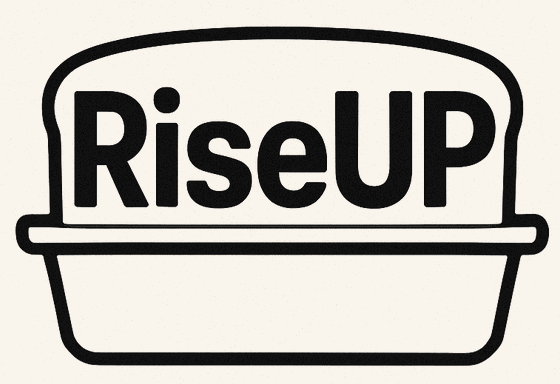
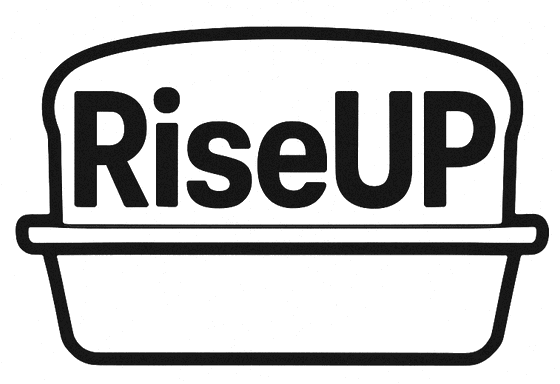
Make the page easier to read and understand
- Darker brown for orange text so it meets contrast guidelines
- Clearer subtitle saying what RiseUP is
- Show the 6-seat limit in The Details
- Second "I'd like to attend" button near the bottom that jumps to the steps
- Plainer labels: "Date coming soon", "Your Gift", "$25 Colorado tax credit"
- Fix the extra dot in Eli's shortened quote
- Transparent logo background so no box shows around it

Claude-Session: https://claude.ai/code/session_01PoVvBkTLwtx1oqfdiccCQz

diff --git a/index.html b/index.html
@@ -23,8 +23,14 @@
             --bg-color: #fdf8f2;
             --text-color: #2c2c2c;
             --accent-color: #c17f3a;
+            --accent-text: #8f5419;
+            --accent-heading: #a66a2a;
             --secondary-text: #7a6f64;
             --warm-border: #e8ddd0;
+        }
+
+        html {
+            scroll-behavior: smooth;
         }
 
         body {
@@ -227,7 +233,7 @@
         }
 
         .bif-title {
-            color: var(--accent-color);
+            color: var(--accent-heading);
             font-family: 'Caveat', cursive;
             font-size: 1.45em;
             font-weight: 700;
@@ -235,7 +241,7 @@
         }
 
         .bif-name {
-            color: var(--accent-color);
+            color: var(--accent-text);
             font-weight: 600;
         }
 
@@ -266,7 +272,7 @@
 
         .cta-secondary {
             background-color: transparent;
-            color: var(--accent-color);
+            color: var(--accent-text);
             box-shadow: inset 0 0 0 2px var(--accent-color);
         }
 
@@ -280,7 +286,7 @@
             border: none;
             padding: 0 4px;
             cursor: pointer;
-            color: var(--accent-color);
+            color: var(--accent-text);
             font-size: 14px;
             font-family: inherit;
         }
@@ -291,7 +297,7 @@
             padding: 0;
             margin-top: 12px;
             cursor: pointer;
-            color: var(--accent-color);
+            color: var(--accent-text);
             font: inherit;
             font-style: normal;
             font-size: 14px;
@@ -340,7 +346,7 @@
            <img src="IMG_2951.png" alt="RiseUP Logo" class="logo-top">
         
         <h1>Rising soon, Bake #3</h1>
-        <p class="subtitle">A baking experience for good.</p>
+        <p class="subtitle">A morning of bread baking that supports Denver youth through Urban Peak.</p>
 
         <div class="section">
             <h2>The Mission</h2>
@@ -353,23 +359,27 @@
             <div class="details-grid">
                 <div class="detail-item">
                     <div class="detail-label">When</div>
-                    <div class="detail-value">Date tbd<br>9:45 AM — 1:00 PM</div>
+                    <div class="detail-value">Date coming soon<br>9:45 AM — 1:00 PM</div>
                 </div>
                 <div class="detail-item">
                     <div class="detail-label">Where</div>
                     <div class="detail-value">The Mothership<br>1630 S. Acoma St.</div>
                 </div>
                 <div class="detail-item">
-                    <div class="detail-label">Impact</div>
-                    <div class="detail-value">$100 Donation</div>
+                    <div class="detail-label">Your Gift</div>
+                    <div class="detail-value">$100 donation</div>
                 </div>
              <div class="detail-item">
     <div class="detail-label">Tax Credit</div>
-    <div class="detail-value">$25 HCTC Credit
+    <div class="detail-value">$25 Colorado tax credit
         <button type="button" class="info-button" id="hctc-toggle" aria-expanded="false" aria-controls="hctc-tip" aria-label="What is the HCTC tax credit?">ⓘ</button>
         <div id="hctc-tip" hidden style="margin-top:8px;font-size:13px;color:#7a6f64;background:#f0e8dc;border-radius:8px;padding:10px 12px;line-height:1.5;">Colorado's Homeless Contribution Tax Credit (HCTC) allows donors to receive a <strong>25% state tax credit</strong> on donations of $100 or more to qualifying organizations like Urban Peak. On a $100 donation, that's a <strong>$25 credit</strong> directly off your Colorado state taxes. Select "Yes" under Gift Preferences when donating to claim it.</div>
     </div>
 </div>
+                <div class="detail-item">
+                    <div class="detail-label">Seats</div>
+                    <div class="detail-value">Only 6 per bake</div>
+                </div>
 
             </div>
         </div>
@@ -379,7 +389,7 @@
             <p>While our dough undergoes its first rise, we will take a private tour of the brand-new Mothership campus to see the trauma-informed care and housing programs in action.</p>
         </div>
 
-<p style="margin-top: 40px; margin-bottom: 0; color: var(--text-color);">Join us for a morning of bread baking and a closer look at Urban Peak.</p>
+<p id="sign-up" style="margin-top: 40px; margin-bottom: 0; color: var(--text-color);">Join us for a morning of bread baking and a closer look at Urban Peak.</p>
 
 <ol class="signup-steps">
     <li>Click the button below.</li>
@@ -389,7 +399,7 @@
     <li>Complete your donation.</li>
 </ol>
 
-<p style="margin-top: 40px; font-size: 17px; font-weight: 600; color: var(--accent-color);">Your full $100 goes directly to Urban Peak youth.</p>
+<p style="margin-top: 40px; font-size: 17px; font-weight: 600; color: var(--accent-text);">Your full $100 goes directly to Urban Peak youth.</p>
 
 <a href="https://www.urbanpeak.org/support" class="cta-button" target="_blank" rel="noopener noreferrer">I'd like to attend</a>
 
@@ -434,8 +444,8 @@
             <img src="Tom-Colleen-RiseUP-2.jpeg" loading="lazy" alt="RiseUP Bake 2 - Tom and Colleen">
                 </div>
  <div class="quote-card">
-                    "I loafed every minute of the RiseUP event this weekend! From start to finish, it was the perfect recipe for a meaningful and memorable experience.<span id="eli-ellipsis">…"</span>
-                    <span id="eli-more" hidden>
+                    "I loafed every minute of the RiseUP event this weekend! From start to finish, it was the perfect recipe for a meaningful and memorable experience<span id="eli-ellipsis">…"</span><span id="eli-more" hidden>.
+                    
                     <br><br>
                     We got hands-on baking bread (and yes, I kneaded that in my life), learning techniques that made me feel like I could really rise to the occasion in my own kitchen. Our baker, Sean, was absolutely the upper crust: patient, encouraging, and full of wisdom. He truly helped us see that even when life gets tough, we can still rise up (just like a good dough!) and accomplish something amazing.
                     <br><br>
@@ -456,12 +466,12 @@
     <div style="display:flex;flex-direction:column;gap:16px;">
         <div>
             <p style="margin:0 0 8px;"><strong>How to Knead</strong></p>
-            <a href="https://www.youtube.com/watch?v=BJiucv88flM" target="_blank" rel="noopener noreferrer" style="color:#c17f3a;font-size:14px;text-decoration:underline;">Watch on YouTube ↗</a>
+            <a href="https://www.youtube.com/watch?v=BJiucv88flM" target="_blank" rel="noopener noreferrer" style="color:var(--accent-text);font-size:14px;text-decoration:underline;">Watch on YouTube ↗</a>
 
         </div>
         <div>
             <p style="margin:0 0 8px;"><strong>How to Shape a Loaf</strong></p>
- <a href="https://www.youtube.com/watch?v=wx5I5O_RoeI" target="_blank" rel="noopener noreferrer" style="color:#c17f3a;font-size:14px;text-decoration:underline;">Watch on YouTube ↗</a>
+ <a href="https://www.youtube.com/watch?v=wx5I5O_RoeI" target="_blank" rel="noopener noreferrer" style="color:var(--accent-text);font-size:14px;text-decoration:underline;">Watch on YouTube ↗</a>
 
         </div>
     </div>
@@ -476,7 +486,10 @@
             </div>
         </div>
 
-<a href="mailto:seanluxton@gmail.com?subject=I'm interested in RiseUP!" class="cta-button" style="margin-top: 10px;">Email me with any questions</a>
+<p style="margin: 10px 0 0; font-size: 19px; font-weight: 600;">Ready to bake?</p>
+<a href="#sign-up" class="cta-button" style="margin-top: 16px;">I'd like to attend</a>
+<br>
+<a href="mailto:seanluxton@gmail.com?subject=I'm interested in RiseUP!" class="cta-button cta-secondary" style="margin-top: 16px;">Email me with any questions</a>
 
 
         <div class="footer">
